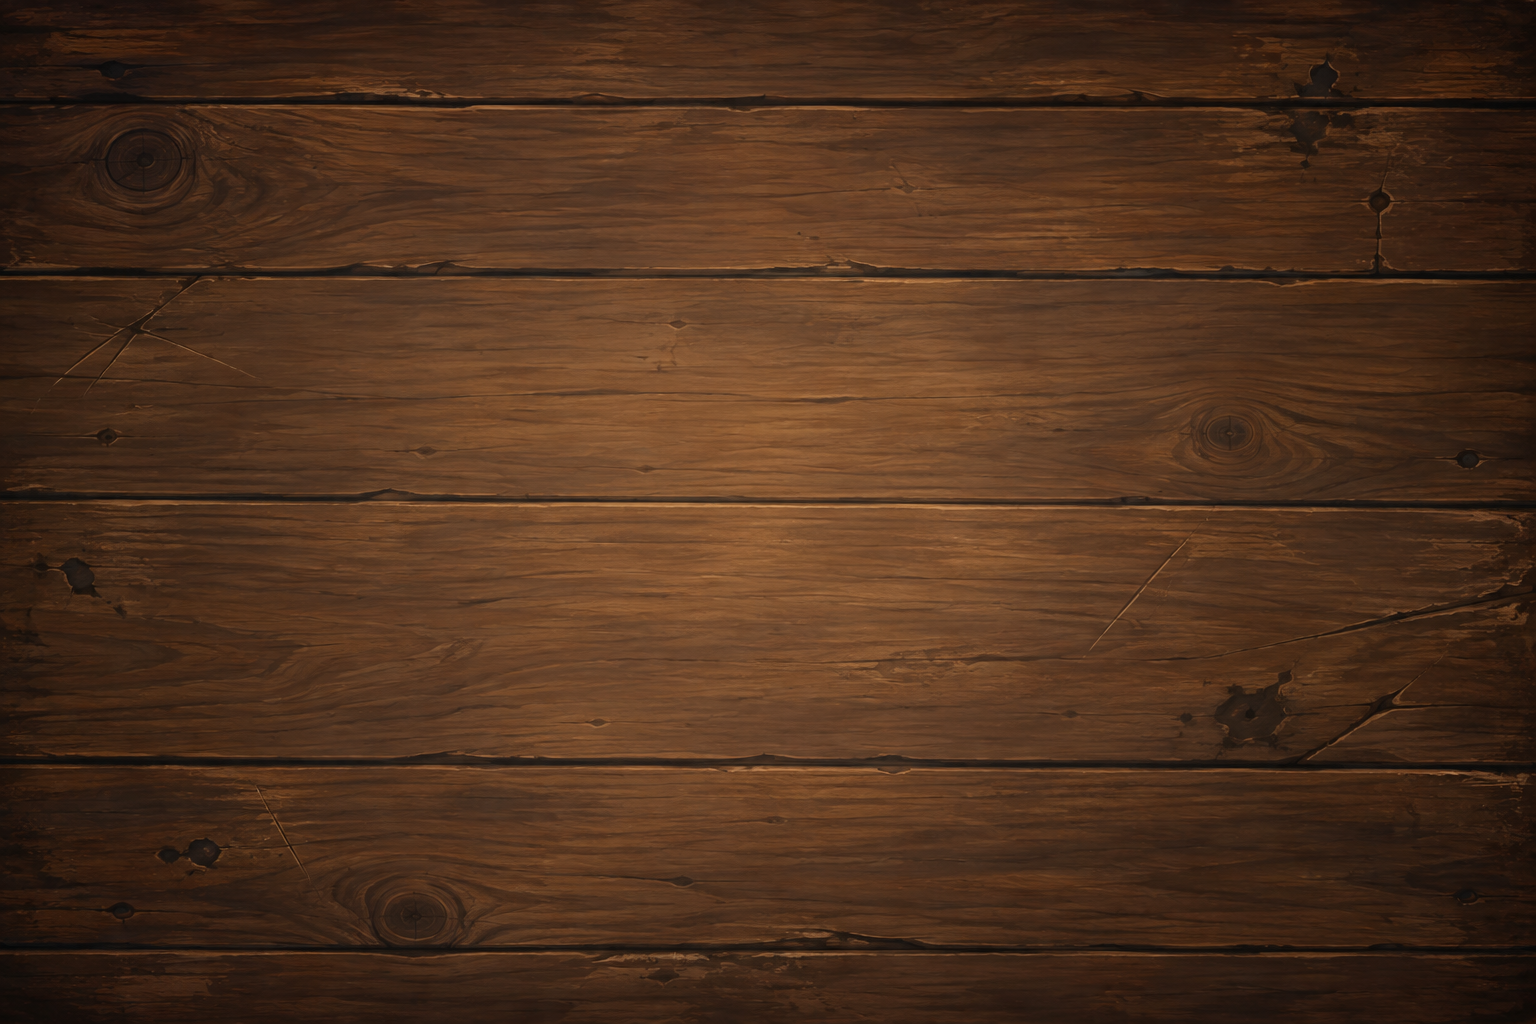
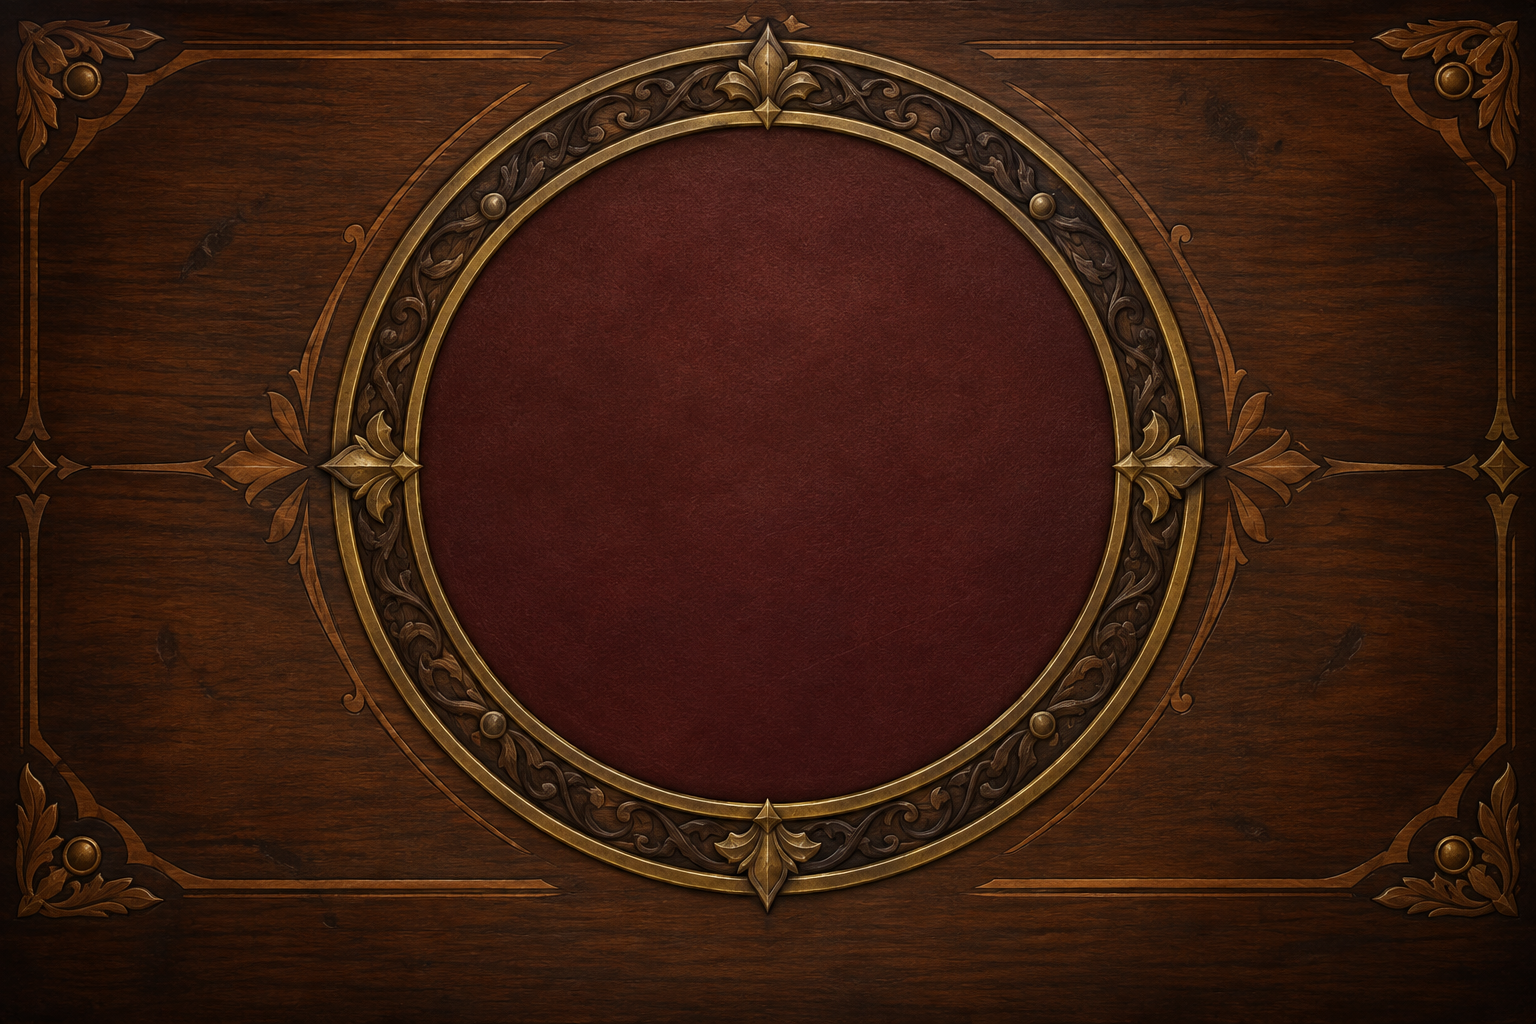
Replace plank table with a round-medallion table background

diff --git a/src/styles.css b/src/styles.css
@@ -28,7 +28,7 @@ body,
 
 body {
   background:
-    radial-gradient(ellipse at 50% 40%, transparent 30%, rgba(0, 0, 0, 0.55) 100%) fixed,
+    radial-gradient(ellipse at 50% 50%, transparent 45%, rgba(0, 0, 0, 0.45) 100%) fixed,
     var(--wood-dark) url('/table.webp') center / cover fixed;
   -webkit-tap-highlight-color: transparent;
 }
